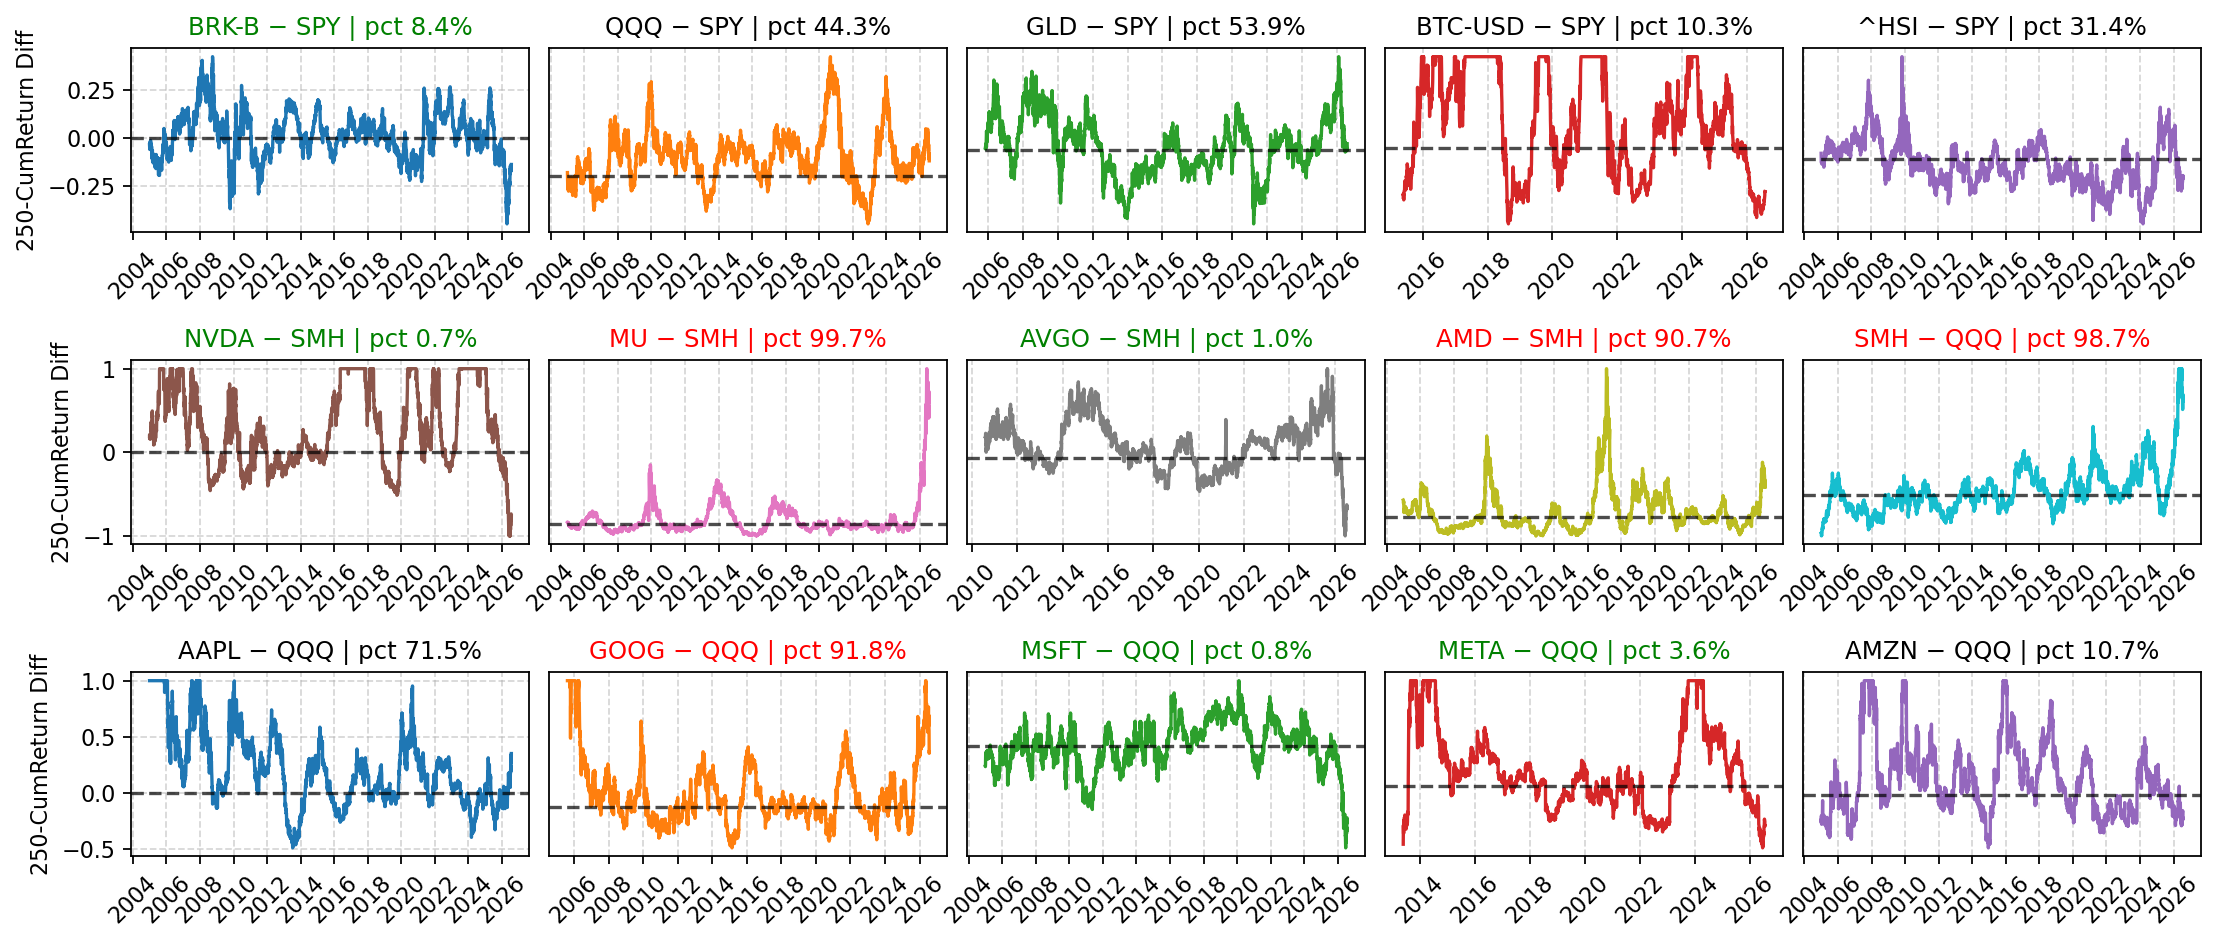
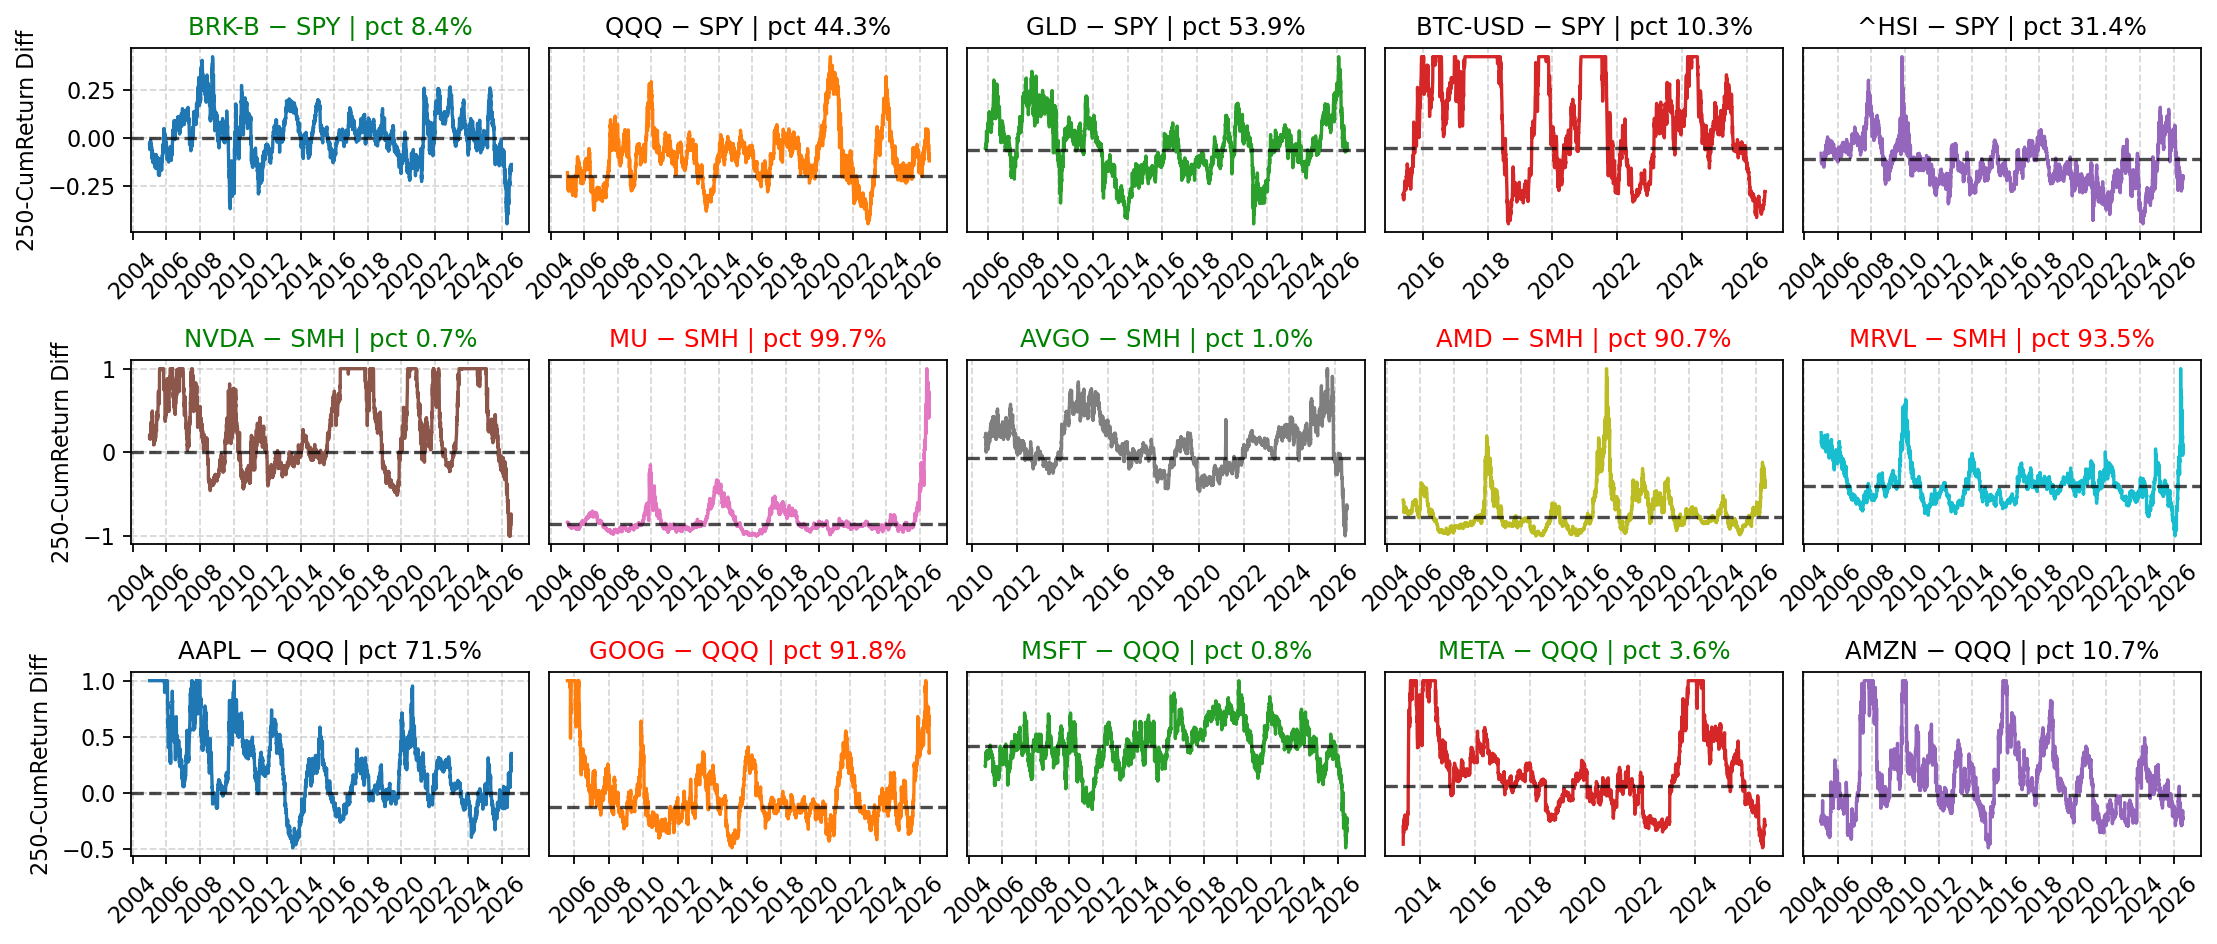
.

Changed region(s): [[0.8092, 0.4301, 0.9959, 0.553], [0.8403, 0.3379, 0.9648, 0.3686]]

diff --git a/docs/index.html b/docs/index.html
@@ -12,7 +12,7 @@
 </head>
 <body>
   <h1>Rolling Pair Diffs (250-day)</h1>
-  <div class="meta">Last updated: 2026-07-26 03:04 UTC</div>
+  <div class="meta">Last updated: 2026-07-26 03:30 UTC</div>
   <p><img src="rolling_pairs.png" alt="rolling pairs figure"></p>
   <div class="note">
     Data via <code>yfinance</code>. Figure regenerates daily via GitHub Actions.

diff --git a/auto_macro_pair_monitor.py b/auto_macro_pair_monitor.py
@@ -29,7 +29,7 @@ PAIRS = [
     ('MU', 'SMH'), 
     ('AVGO', 'SMH'), 
     ('AMD', 'SMH'),      
-    ('SMH', 'QQQ'),  
+    ('MRVL', 'SMH'),  
     ('AAPL', 'QQQ'),  
     ('GOOG', 'QQQ'),     
     ('MSFT', 'QQQ'),   
